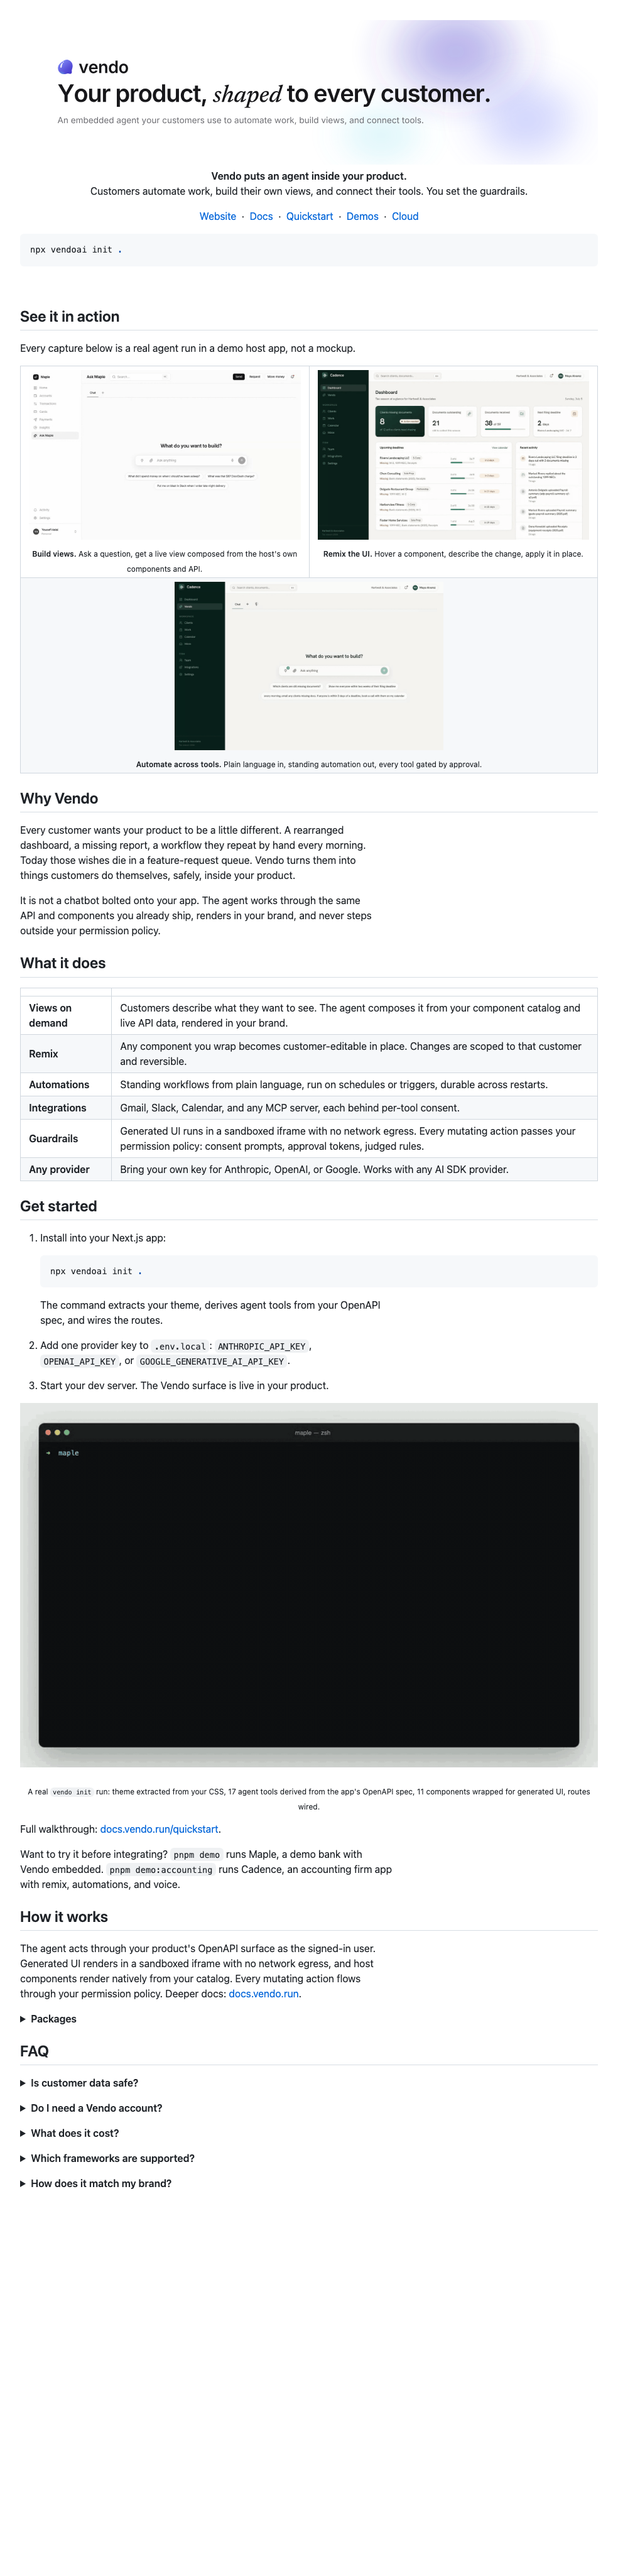
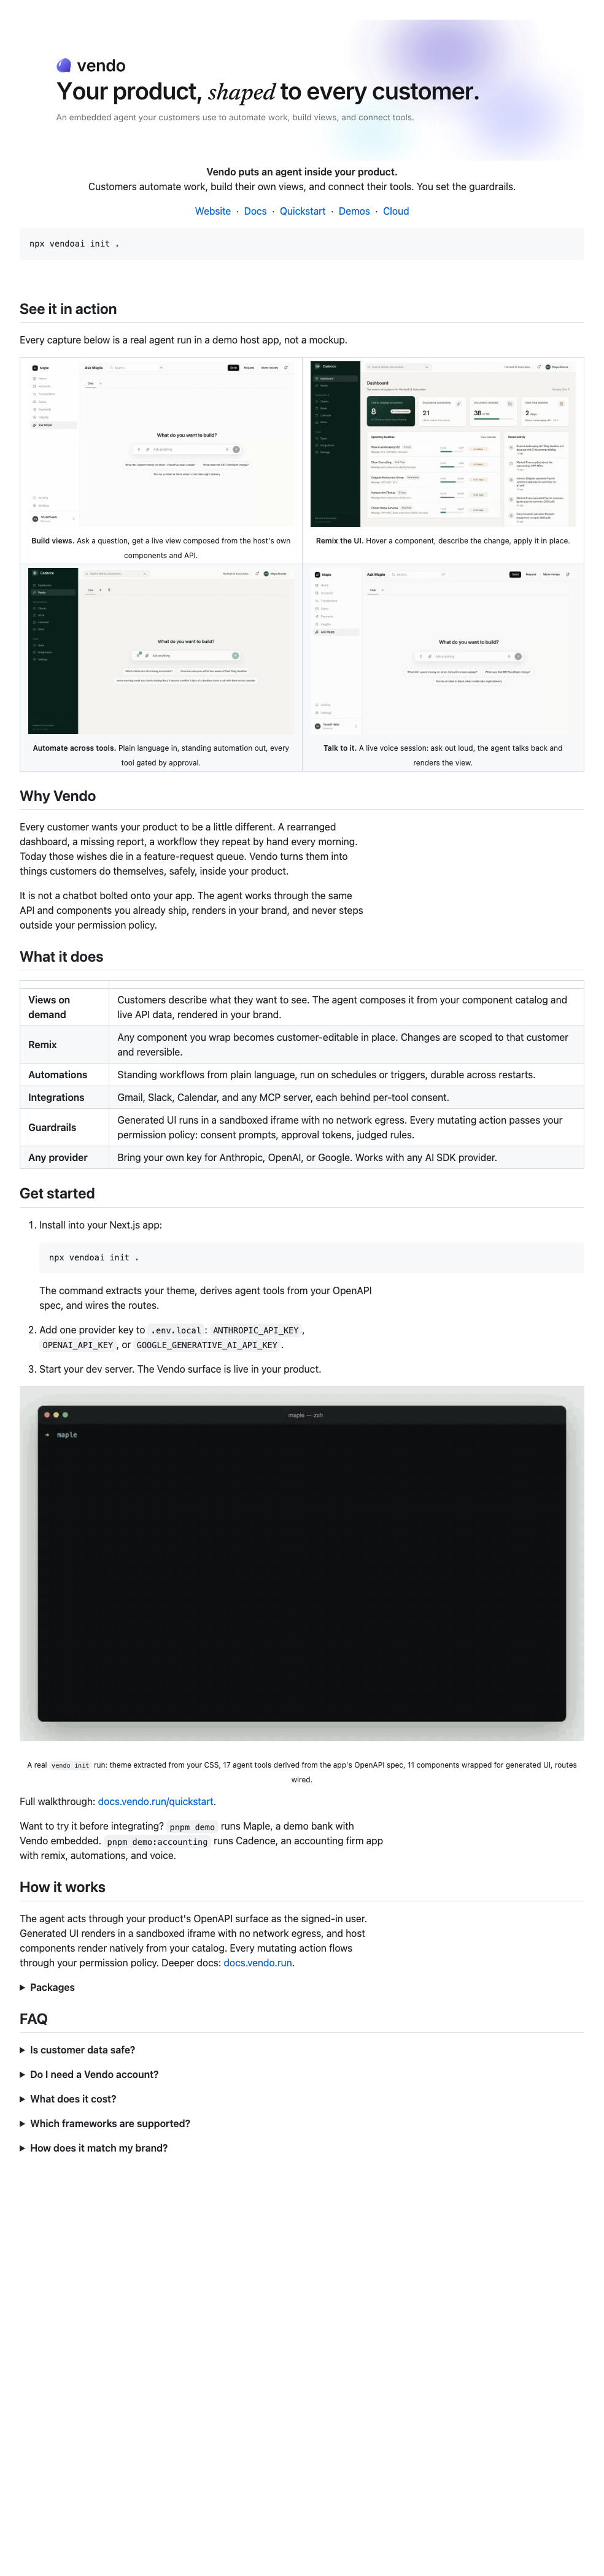
docs: add voice GIF, complete the 2x2 See-it-in-action grid
Real Maple voice session (fix from PR #84 live): the user asks out
loud, the agent talks back and renders a spending view with money
formatted as dollars. Grid is now build/remix/automate/voice.

Claude-Session: https://claude.ai/code/session_017NByF52aq66wb9DCHdBSq9

diff --git a/README.md b/README.md
@@ -42,9 +42,13 @@ Every capture below is a real agent run in a demo host app, not a mockup.
     </td>
   </tr>
   <tr>
-    <td colspan="2" align="center">
-      <img src="assets/automation.gif" alt="A Cadence user asks for a morning document-chase automation and turns it on with per-tool approvals" width="48%">
+    <td width="50%" valign="top">
+      <img src="assets/automation.gif" alt="A Cadence user asks for a morning document-chase automation and turns it on with per-tool approvals" width="100%">
       <p align="center"><sub><b>Automate across tools.</b> Plain language in, standing automation out, every tool gated by approval.</sub></p>
+    </td>
+    <td width="50%" valign="top">
+      <img src="assets/voice.gif" alt="A Maple voice session: the user asks out loud where their money went and the agent renders the view while talking back" width="100%">
+      <p align="center"><sub><b>Talk to it.</b> A live voice session: ask out loud, the agent talks back and renders the view.</sub></p>
     </td>
   </tr>
 </table>